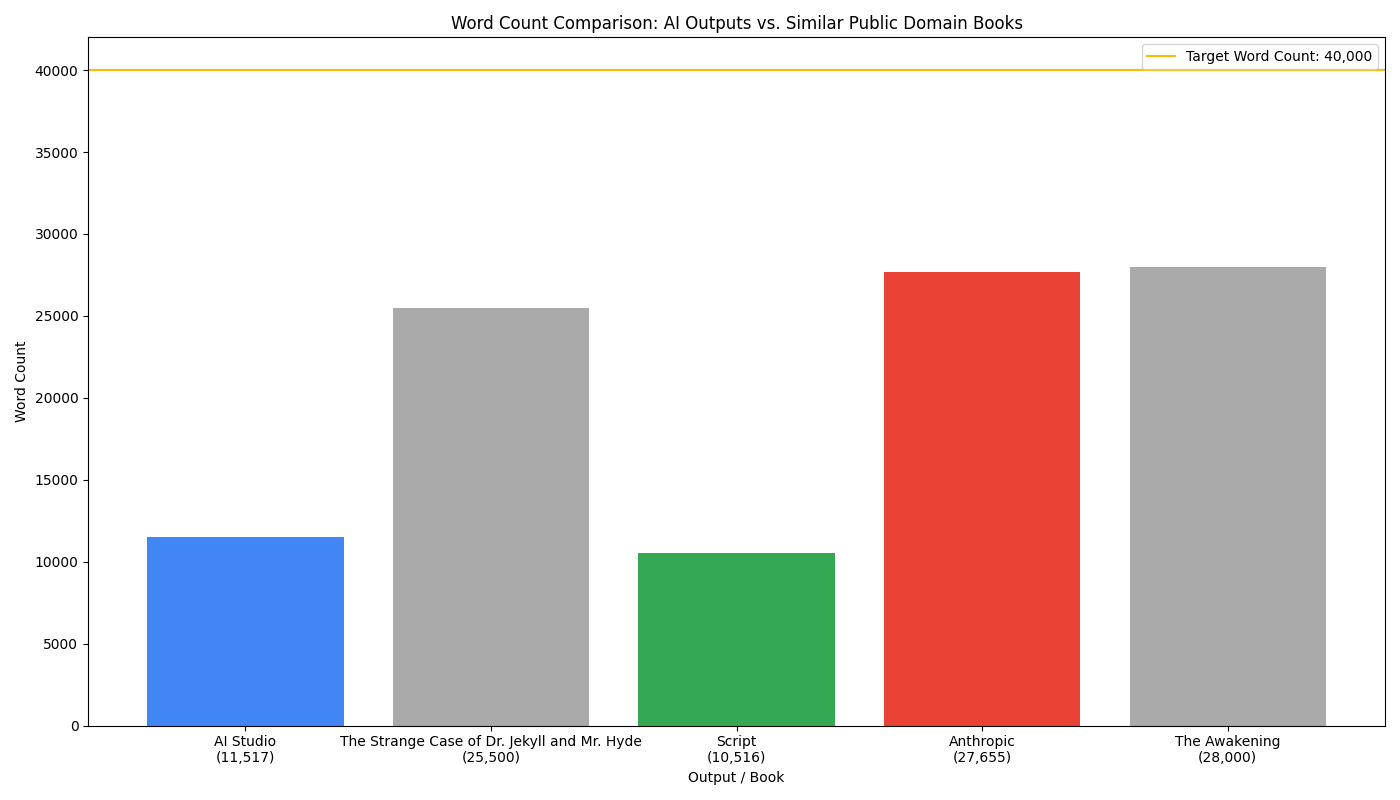
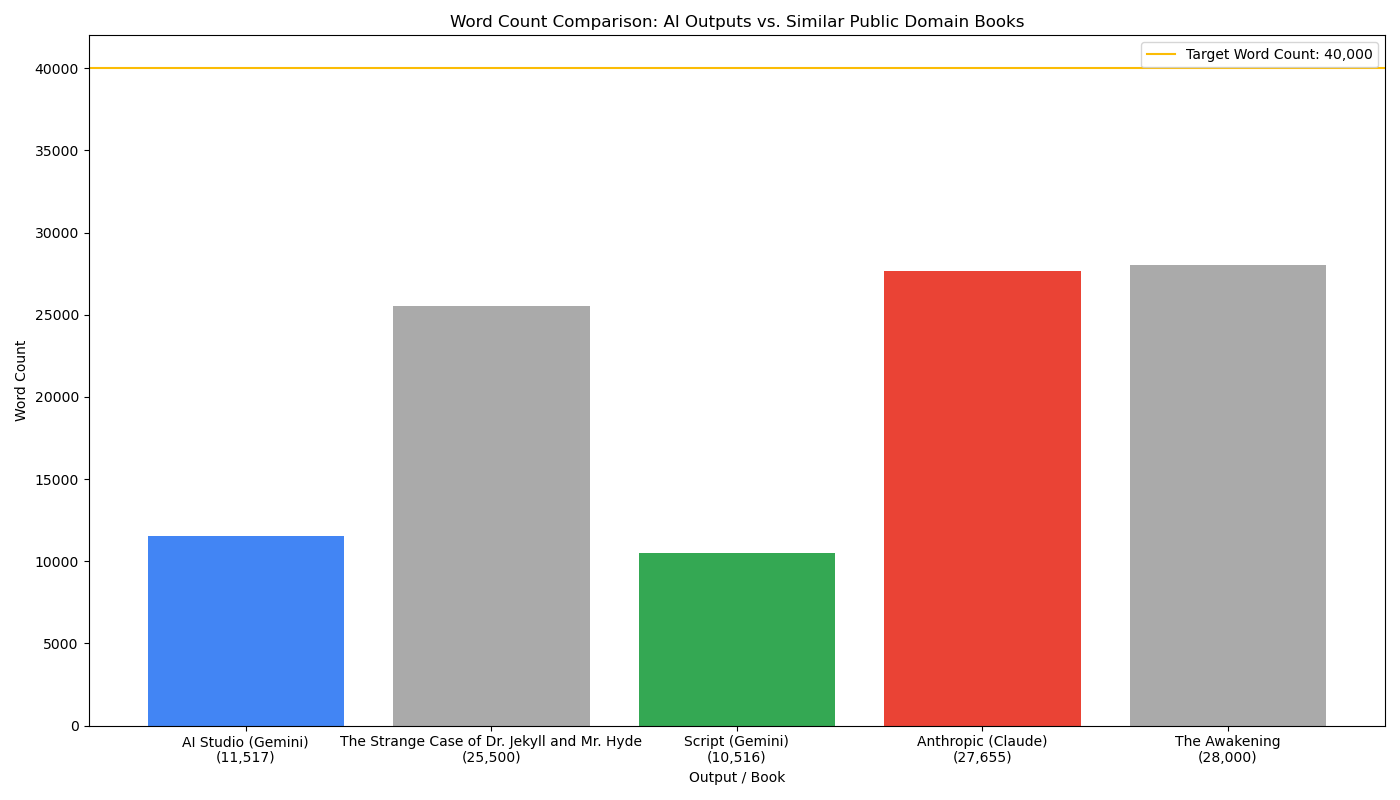
updated

diff --git a/updated_analysis.py b/updated_analysis.py
@@ -1,13 +1,13 @@
 #!/usr/bin/env python3
 """
-Updated Analysis Script for Gemini 2.5 Max Output Tokens Test
+Updated Analysis Script for LLM Output Capacity Test
 
-This script calculates the percentage of words achieved compared to the 40,000 word target
-and finds public domain books with similar word counts to the AI outputs for comparison.
+This script analyzes the outputs from different LLMs and compares them to:
+1. The 40,000 word target from the prompt
+2. The claimed maximum token capacities for each model
 """
 
 import os
-import re
 import matplotlib.pyplot as plt
 from token_estimator import estimate_tokens_for_file
 
@@ -24,6 +24,12 @@ os.makedirs(OUTPUT_DIR, exist_ok=True)
 
 # Target word count from the prompt
 TARGET_WORD_COUNT = 40000
+
+# Claimed maximum token capacities for each model
+MODEL_MAX_TOKENS = {
+    'gemini': 65536,  # Gemini 2.5 Pro
+    'anthropic': 128000  # Claude 3 Opus
+}
 
 # Public domain books with word counts (for comparison)
 BOOKS = [
@@ -87,7 +93,7 @@ def create_target_percentage_chart(token_data, output_path):
     plt.figure(figsize=(12, 7))
     
     # Data for chart
-    sources = ['AI Studio', 'Script', 'Anthropic']
+    sources = ['AI Studio (Gemini)', 'Script (Gemini)', 'Anthropic (Claude)']
     word_counts = [
         token_data['ai_studio']['word_count'], 
         token_data['script']['word_count'],
@@ -98,7 +104,7 @@ def create_target_percentage_chart(token_data, output_path):
     percentages = [(count / TARGET_WORD_COUNT) * 100 for count in word_counts]
     
     # Create bar chart with different colors
-    bars = plt.bar(sources, percentages, color=['#4285F4', '#34A853', '#EA4335'])
+    plt.bar(sources, percentages, color=['#4285F4', '#34A853', '#EA4335'])
     
     # Add 100% reference line
     plt.axhline(y=100, color='#FBBC05', linestyle='-', 
@@ -110,10 +116,10 @@ def create_target_percentage_chart(token_data, output_path):
     plt.title(f'Percentage of Target Word Count ({TARGET_WORD_COUNT:,} words) Achieved')
     
     # Add value labels on bars
-    for i, bar in enumerate(bars):
-        height = bar.get_height()
-        plt.text(bar.get_x() + bar.get_width()/2., height + 2,
-                f'{height:.1f}%\n({word_counts[i]:,} words)',
+    for i, count in enumerate(word_counts):
+        height = (count / TARGET_WORD_COUNT) * 100
+        plt.text(i, height + 2,
+                f'{height:.1f}%\n({count:,} words)',
                 ha='center', va='bottom', fontweight='bold')
     
     plt.legend()
@@ -138,11 +144,11 @@ def create_book_comparison_chart(token_data, output_path):
     
     # Data for chart
     labels = [
-        f"AI Studio\n({token_data['ai_studio']['word_count']:,})",
+        f"AI Studio (Gemini)\n({token_data['ai_studio']['word_count']:,})",
         f"{ai_studio_closest['title']}\n({ai_studio_closest['word_count']:,})",
-        f"Script\n({token_data['script']['word_count']:,})",
+        f"Script (Gemini)\n({token_data['script']['word_count']:,})",
         f"{script_closest['title']}\n({script_closest['word_count']:,})",
-        f"Anthropic\n({token_data['anthropic']['word_count']:,})",
+        f"Anthropic (Claude)\n({token_data['anthropic']['word_count']:,})",
         f"{anthropic_closest['title']}\n({anthropic_closest['word_count']:,})"
     ]
     
@@ -159,7 +165,7 @@ def create_book_comparison_chart(token_data, output_path):
     colors = ['#4285F4', '#AAAAAA', '#34A853', '#AAAAAA', '#EA4335', '#AAAAAA']
     
     # Create bar chart
-    bars = plt.bar(labels, word_counts, color=colors)
+    plt.bar(labels, word_counts, color=colors)
     
     # Add labels and title
     plt.xlabel('Output / Book')
@@ -175,6 +181,57 @@ def create_book_comparison_chart(token_data, output_path):
     plt.savefig(output_path)
     plt.close()
 
+def create_token_capacity_chart(token_data, output_path):
+    """
+    Create a bar chart showing percentage of claimed token capacity used.
+    
+    Args:
+        token_data (dict): Dictionary containing the token data
+        output_path (str): Path to save the chart
+    """
+    plt.figure(figsize=(12, 7))
+    
+    # Data for chart
+    sources = ['AI Studio (Gemini)', 'Script (Gemini)', 'Anthropic (Claude)']
+    token_counts = [
+        token_data['ai_studio']['original_token_count'],
+        token_data['script']['original_token_count'],
+        token_data['anthropic']['original_token_count']
+    ]
+    
+    # Map each source to its model
+    model_map = {
+        'AI Studio (Gemini)': 'gemini',
+        'Script (Gemini)': 'gemini',
+        'Anthropic (Claude)': 'anthropic'
+    }
+    
+    # Calculate percentages of claimed capacity
+    percentages = [
+        (token_counts[i] / MODEL_MAX_TOKENS[model_map[sources[i]]]) * 100 
+        for i in range(len(sources))
+    ]
+    
+    # Create bar chart with different colors
+    plt.bar(sources, percentages, color=['#4285F4', '#34A853', '#EA4335'])
+    
+    # Add labels and title
+    plt.xlabel('Source')
+    plt.ylabel('Percentage of Claimed Token Capacity (%)')
+    plt.title('Percentage of Claimed Maximum Token Capacity Used')
+    
+    # Add value labels on bars
+    for i, count in enumerate(token_counts):
+        height = (count / MODEL_MAX_TOKENS[model_map[sources[i]]]) * 100
+        model = model_map[sources[i]]
+        plt.text(i, height + 2,
+                f'{height:.1f}%\n({count:,}/{MODEL_MAX_TOKENS[model]:,} tokens)',
+                ha='center', va='bottom', fontweight='bold')
+    
+    plt.tight_layout()
+    plt.savefig(output_path)
+    plt.close()
+
 def main():
     """Main function to run the analysis"""
     print("UPDATED ANALYSIS:")
@@ -185,12 +242,28 @@ def main():
     
     # Print percentage of target achieved
     print(f"Target Word Count: {TARGET_WORD_COUNT:,}")
-    print("\nPercentage of Target Achieved:")
+    print("\nPercentage of Target Word Count Achieved:")
     print("-" * 80)
     
     for name, data in token_data.items():
         percentage = (data['word_count'] / TARGET_WORD_COUNT) * 100
-        print(f"{name.title()}: {data['word_count']:,} words ({percentage:.2f}%)")
+        print(f"{name.title()}: {data['word_count']:,} words ({percentage:.2f}% of target)")
+    
+    # Print percentage of claimed token capacity used
+    print("\nPercentage of Claimed Token Capacity Used:")
+    print("-" * 80)
+    
+    model_map = {
+        'ai_studio': 'gemini',
+        'script': 'gemini',
+        'anthropic': 'anthropic'
+    }
+    
+    for name, data in token_data.items():
+        model = model_map[name]
+        token_percentage = (data['original_token_count'] / MODEL_MAX_TOKENS[model]) * 100
+        print(f"{name.title()}: {data['original_token_count']:,} tokens " +
+              f"({token_percentage:.2f}% of {MODEL_MAX_TOKENS[model]:,} claimed tokens)")
     
     # Find closest books for comparison
     print("\nSimilar Public Domain Books:")
@@ -209,10 +282,12 @@ def main():
     # Generate charts
     create_target_percentage_chart(token_data, os.path.join(OUTPUT_DIR, 'target_percentage.png'))
     create_book_comparison_chart(token_data, os.path.join(OUTPUT_DIR, 'similar_books_comparison.png'))
+    create_token_capacity_chart(token_data, os.path.join(OUTPUT_DIR, 'token_capacity.png'))
     
     print("\nCharts generated:")
     print(f"  - {os.path.join(OUTPUT_DIR, 'target_percentage.png')}")
     print(f"  - {os.path.join(OUTPUT_DIR, 'similar_books_comparison.png')}")
+    print(f"  - {os.path.join(OUTPUT_DIR, 'token_capacity.png')}")
 
 if __name__ == "__main__":
     main()
